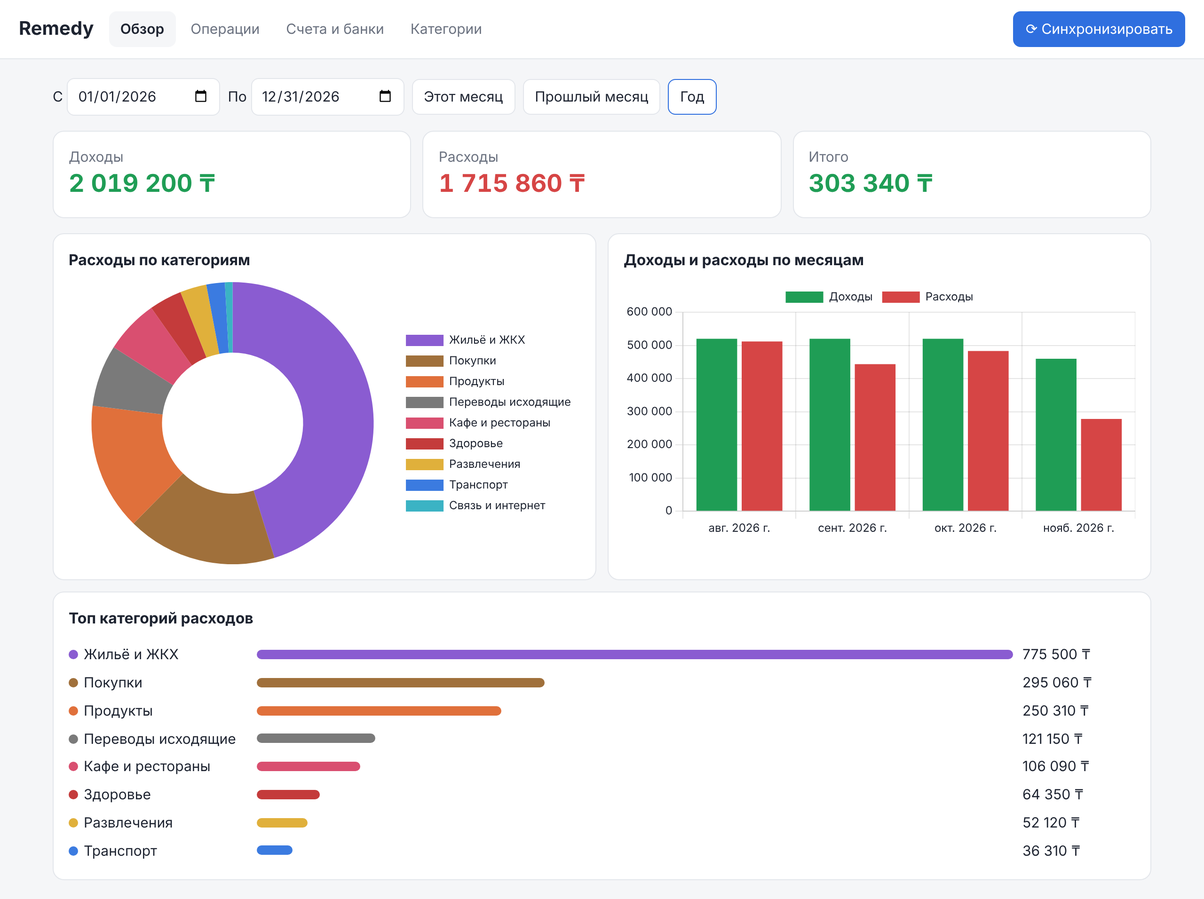
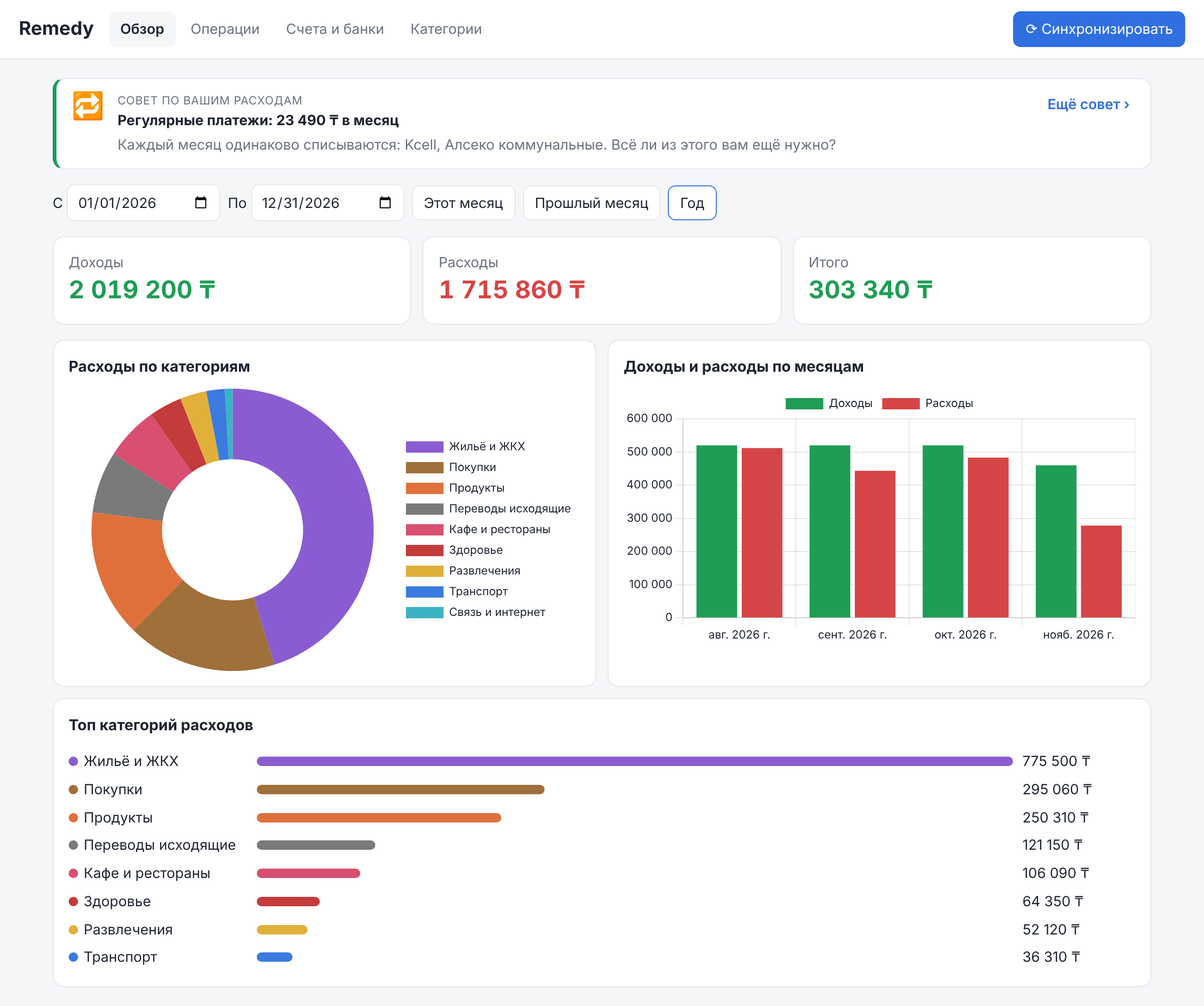
Add rotating financial tips on the overview
- Personal tips from the user's own transactions: savings rate, spending
  pace vs the same days last month, fastest-growing category, top
  flexible category, cafe/delivery count, recurring payments, emergency
  fund target
- 30 general tips (Kazakhstan context: Kaspi installments, KDIF, tenge)
- /api/tip returns a random unseen tip; the page remembers shown tips
  and starts over once all were shown

Claude-Session: https://claude.ai/code/session_012pkuXTJASus5BNVYpo8GZt

diff --git a/frontend/app.js b/frontend/app.js
@@ -137,6 +137,30 @@ async function loadOverview() {
     : '<li class="hint">Нет расходов за период. Подключите банк или импортируйте выписку на вкладке «Счета и банки».</li>';
 }
 
+// --- Финансовые советы ------------------------------------------------------------------
+const SEEN_KEY = "remedy.seenTips";
+function seenTips() {
+  try { return JSON.parse(localStorage.getItem(SEEN_KEY) || "[]"); } catch { return []; }
+}
+function saveSeen(list) {
+  try { localStorage.setItem(SEEN_KEY, JSON.stringify(list.slice(-80))); } catch { /* приватный режим */ }
+}
+let tipSeenThisSession = [];
+async function loadTip() {
+  const seen = [...new Set([...seenTips(), ...tipSeenThisSession])];
+  const t = await api("/api/tip?seen=" + encodeURIComponent(seen.join(",")));
+  const next = t.reset ? [t.id] : [...seen, t.id];
+  tipSeenThisSession = next;
+  saveSeen(next);
+  $("#tip-icon").textContent = t.icon;
+  $("#tip-label").textContent = t.kind === "personal" ? "Совет по вашим расходам" : "Финансовый совет";
+  $("#tip").classList.toggle("personal", t.kind === "personal");
+  $("#tip-title").textContent = t.title;
+  $("#tip-text").textContent = t.text;
+  $("#tip").hidden = false;
+}
+$("#tip-next").addEventListener("click", guard(loadTip));
+
 // --- Операции ----------------------------------------------------------------------------
 async function loadTransactions() {
   const p = new URLSearchParams();
@@ -318,4 +342,5 @@ $("#recategorize").addEventListener("click", guard(async () => {
   if (params.has("bank_error")) toast(`Не удалось подключить банк: ${params.get("bank_error")}`, true);
   if (params.has("bank_linked") || params.has("bank_error")) history.replaceState(null, "", "/");
   guard(refresh)();
+  guard(loadTip)();
 })();

diff --git a/frontend/style.css b/frontend/style.css
@@ -27,6 +27,21 @@ button.primary { background: var(--accent); border-color: var(--accent); color: 
 button.link { border: none; background: none; color: var(--muted); padding: 2px 6px; }
 button.link:hover { color: var(--expense); }
 
+.tip { display: flex; gap: 14px; align-items: flex-start; background: var(--surface); border: 1px solid var(--border);
+  border-left: 4px solid var(--accent); border-radius: 12px; padding: 14px 16px; margin-bottom: 16px; }
+.tip.personal { border-left-color: var(--income); }
+.tip-icon { font-size: 28px; line-height: 1; }
+.tip-body { flex: 1; min-width: 0; }
+.tip-label { font-size: 12px; text-transform: uppercase; letter-spacing: .04em; color: var(--muted); margin-bottom: 2px; }
+.tip-body p { margin: 4px 0 0; color: var(--muted); }
+button.tip-next { color: var(--accent); white-space: nowrap; font-weight: 600; }
+button.tip-next:hover { color: var(--accent); text-decoration: underline; }
+@media (max-width: 700px) {
+  .tip { flex-wrap: wrap; gap: 10px; padding: 12px 14px; }
+  .tip-icon { font-size: 24px; }
+  button.tip-next { order: 3; flex-basis: 100%; text-align: right; padding: 4px 0 0; }
+}
+
 .period, .filters, .inline-form { display: flex; flex-wrap: wrap; gap: 8px; align-items: center; margin-bottom: 16px; }
 .cards { display: grid; grid-template-columns: repeat(auto-fit, minmax(180px, 1fr)); gap: 12px; margin-bottom: 16px; }
 .card { background: var(--surface); border: 1px solid var(--border); border-radius: 12px; padding: 16px; }

diff --git a/frontend/index.html b/frontend/index.html
@@ -24,6 +24,15 @@
 <main>
   <!-- Обзор -->
   <section id="tab-overview" class="tab active">
+    <div id="tip" class="tip" hidden>
+      <div class="tip-icon" id="tip-icon"></div>
+      <div class="tip-body">
+        <div class="tip-label" id="tip-label"></div>
+        <b id="tip-title"></b>
+        <p id="tip-text"></p>
+      </div>
+      <button id="tip-next" class="link tip-next" title="Другой совет">Ещё совет ›</button>
+    </div>
     <div class="period">
       <label>С <input type="date" id="ov-from"></label>
       <label>По <input type="date" id="ov-to"></label>

diff --git a/app/tips.py b/app/tips.py
@@ -1,0 +1,230 @@
+"""Финансовые советы: личные (по операциям пользователя) и общие (подборка).
+
+Личные советы пересчитываются по данным, поэтому меняются вместе с расходами. Каждый совет имеет
+стабильный id — фронтенд запоминает показанные и просит следующий, которого ещё не было.
+"""
+import random
+import sqlite3
+from calendar import monthrange
+from collections import defaultdict
+from datetime import date, timedelta
+from typing import Optional
+
+
+def money(n: float) -> str:
+    return f"{round(n):,}".replace(",", "\u00a0") + "\u00a0₸"  # неразрывные пробелы
+
+
+GENERAL_TIPS = [
+    ("💰", "Сначала заплатите себе", "В день зарплаты сразу переводите 10–20% на депозит — до того, как начнёте тратить. "
+     "Откладывать «то, что останется в конце месяца», почти никогда не работает."),
+    ("🛟", "Подушка безопасности", "Цель — запас на 3–6 месяцев обычных расходов на отдельном счёте. "
+     "Он спасает от кредитов, если потеряете работу или понадобится срочный ремонт."),
+    ("📊", "Правило 50/30/20", "Попробуйте делить доход так: 50% — обязательные расходы (жильё, еда, транспорт), "
+     "30% — желания, 20% — накопления и погашение долгов."),
+    ("🧾", "Рассрочка — тоже долг", "Рассрочка 0-0-12 удобна, но несколько рассрочек сразу незаметно съедают "
+     "бюджет на месяцы вперёд. Перед новой покупкой сложите все текущие ежемесячные платежи."),
+    ("⏳", "Правило 72 часов", "Хочется купить что-то дорогое и незапланированное? Добавьте в корзину и подождите "
+     "три дня. Половина таких желаний за это время проходит сама."),
+    ("🔁", "Проверьте подписки", "Раз в квартал пересматривайте подписки: кино, музыка, облака, приложения. "
+     "Часто мы платим за сервисы, которыми не пользовались месяцами."),
+    ("🛒", "Список перед магазином", "Покупки по заранее составленному списку обычно на 15–20% дешевле, "
+     "чем «зайду и посмотрю, что нужно». И не ходите в магазин голодным."),
+    ("🍳", "Доставка vs готовка", "Обед из доставки обычно стоит в 2–3 раза дороже, чем приготовленный дома. "
+     "Даже 2–3 домашних обеда в неделю заметно экономят за месяц."),
+    ("🏦", "Депозит вместо карты", "Деньги на обычной карте теряют в цене из-за инфляции. "
+     "Свободные средства держите на сберегательном депозите — даже краткосрочном."),
+    ("🛡", "Гарантия депозитов", "Вклады физлиц в Казахстане гарантирует KDIF в пределах установленного лимита. "
+     "Если сбережения большие, проверьте лимит и при необходимости распределите их по разным банкам."),
+    ("🎯", "Цель с суммой и сроком", "«Накопить на отпуск» не работает, а «450 000 ₸ к июлю = 75 000 ₸ в месяц» — работает. "
+     "Разделите цель на ежемесячные суммы."),
+    ("💳", "Кредитка — не доход", "Если пользуетесь кредитным лимитом, гасите его полностью в льготный период. "
+     "Проценты по просрочке легко съедают весь кэшбэк за год."),
+    ("📉", "Сначала дорогие долги", "Если кредитов несколько, направляйте лишние деньги в тот, у которого самая высокая ставка, "
+     "а по остальным платите минимум. Так вы переплатите меньше всего."),
+    ("🎁", "Кэшбэк — не повод тратить", "Кэшбэк приятен, но покупка ради бонусов — это всё равно трата. "
+     "Используйте бонусы на то, что купили бы в любом случае."),
+    ("📅", "Ежегодные траты", "Страховка, техосмотр, подарки, налоги — их легко забыть. "
+     "Посчитайте сумму за год, разделите на 12 и откладывайте её каждый месяц."),
+    ("🧮", "Стоимость в часах", "Перед крупной покупкой переведите цену в часы работы: "
+     "«эти кроссовки = 14 часов моей работы». Иногда это сразу отвечает на вопрос."),
+    ("☕", "Эффект латте", "Кофе за 1 500 ₸ каждый рабочий день — это около 33 000 ₸ в месяц и почти 400 000 ₸ в год. "
+     "Не нужно отказываться — просто знайте цену привычки."),
+    ("👀", "Раз в неделю — 5 минут", "Короткий еженедельный просмотр расходов полезнее, чем подробный разбор раз в полгода: "
+     "вы успеваете скорректировать месяц, пока он не закончился."),
+    ("🏷", "Скидка — не экономия", "«Купи 2 по цене 1» экономит деньги, только если вам действительно нужны две штуки. "
+     "Иначе это просто дополнительная трата."),
+    ("🤝", "Деньги в долг", "Давайте в долг только ту сумму, которую готовы не получить обратно. "
+     "Это сбережёт и бюджет, и отношения."),
+    ("📈", "Повышение — в накопления", "Получили прибавку? Направьте хотя бы половину разницы в сбережения, "
+     "пока вы не привыкли к новому уровню трат."),
+    ("🧹", "Продайте ненужное", "Вещи, которыми не пользовались год, можно продать на OLX или Kaspi Объявлениях "
+     "и отправить деньги на цель."),
+    ("📱", "Тариф связи", "Проверьте, сколько гигабайт и минут вы реально используете. "
+     "Часто можно перейти на тариф дешевле без потери в удобстве."),
+    ("⚡", "Коммунальные платежи", "LED-лампы, выключенные из розетки зарядки и счётчики воды обычно окупаются "
+     "за несколько месяцев и дальше экономят каждый месяц."),
+    ("🧠", "Импульсивные покупки", "Удалите сохранённые карты из приложений магазинов, которыми пользуетесь редко. "
+     "Лишний шаг при оплате заметно сокращает спонтанные покупки."),
+    ("🗂", "Отдельные «конверты»", "Заведите отдельные счета или депозиты под цели: «подушка», «отпуск», «ремонт». "
+     "Так деньги на разные цели не смешиваются."),
+    ("🎓", "Вложения в себя", "Курсы и навыки, которые повышают доход, — одна из самых выгодных инвестиций. "
+     "Но сначала подушка безопасности, потом всё остальное."),
+    ("📆", "Плановые крупные покупки", "Технику дешевле покупать на распродажах: заранее составьте список "
+     "и купите, когда цена упадёт, а не когда старая вещь сломается."),
+    ("🧾", "Чеки и гарантии", "Сохраняйте фото чеков на дорогие покупки: по гарантии можно бесплатно починить "
+     "или вернуть товар, а без чека это намного сложнее."),
+    ("🚕", "Такси против транспорта", "Поездка на такси часто стоит как 10–20 поездок на автобусе. "
+     "Посмотрите, сколько поездок в месяц можно было бы заменить."),
+]
+
+
+def _month_bounds(d: date) -> tuple[str, str]:
+    return d.replace(day=1).isoformat(), d.replace(day=monthrange(d.year, d.month)[1]).isoformat()
+
+
+def _prev_month(d: date) -> date:
+    return (d.replace(day=1) - timedelta(days=1)).replace(day=1)
+
+
+def _by_category(conn, start: str, end: str) -> dict[str, float]:
+    rows = conn.execute(
+        "SELECT COALESCE(c.name, 'Без категории') AS name, -SUM(t.amount) AS total FROM transactions t"
+        " LEFT JOIN categories c ON c.id = t.category_id WHERE t.amount < 0 AND t.date BETWEEN ? AND ?"
+        " GROUP BY name", (start, end)).fetchall()
+    return {r["name"]: r["total"] for r in rows}
+
+
+def _totals(conn, start: str, end: str) -> tuple[float, float]:
+    r = conn.execute(
+        "SELECT COALESCE(SUM(CASE WHEN amount > 0 THEN amount END), 0) AS inc,"
+        " COALESCE(-SUM(CASE WHEN amount < 0 THEN amount END), 0) AS exp"
+        " FROM transactions WHERE date BETWEEN ? AND ?", (start, end)).fetchone()
+    return r["inc"], r["exp"]
+
+
+# переводы и жильё не считаем «урезаемыми» тратами в советах про рост расходов
+NOT_ADJUSTABLE = {"Жильё и ЖКХ", "Переводы исходящие", "Без категории"}
+
+
+def personal_tips(conn: sqlite3.Connection, today: Optional[date] = None) -> list[dict]:
+    today = today or date.today()
+    tips: list[dict] = []
+    month = today.strftime("%Y-%m")
+
+    def add(tid, icon, title, text):
+        tips.append({"id": f"{tid}:{month}", "kind": "personal", "icon": icon, "title": title, "text": text})
+
+    if conn.execute("SELECT COUNT(*) FROM transactions").fetchone()[0] == 0:
+        add("no-data", "📥", "Загрузите первую выписку",
+            "Советы станут личными, когда появятся ваши операции. Загрузите PDF-выписку Kaspi на вкладке «Счета и банки».")
+        return tips
+
+    cur_start, cur_end = _month_bounds(today)
+    prev = _prev_month(today)
+    prev_start, prev_end = _month_bounds(prev)
+    cur_cat, prev_cat = _by_category(conn, cur_start, cur_end), _by_category(conn, prev_start, prev_end)
+    prev_inc, prev_exp = _totals(conn, prev_start, prev_end)
+    cur_inc, cur_exp = _totals(conn, cur_start, cur_end)
+
+    # 1. Норма сбережений за прошлый (полный) месяц
+    if prev_inc > 0:
+        rate = (prev_inc - prev_exp) / prev_inc
+        if rate < 0:
+            add("savings-neg", "⚠", "Расходы больше доходов",
+                f"В прошлом месяце вы потратили {money(prev_exp)} при доходе {money(prev_inc)} — "
+                f"минус {money(prev_exp - prev_inc)}. Посмотрите на 2–3 самые крупные категории: там проще всего сократить.")
+        elif rate < 0.1:
+            add("savings-low", "🐷", f"Вы отложили {rate:.0%} дохода",
+                f"В прошлом месяце осталось {money(prev_inc - prev_exp)} из {money(prev_inc)}. "
+                f"Попробуйте автоматически переводить 10% ({money(prev_inc * 0.1)}) на депозит в день зарплаты.")
+        elif rate >= 0.2:
+            add("savings-good", "🏆", f"Отлично: отложено {rate:.0%} дохода",
+                f"В прошлом месяце у вас осталось {money(prev_inc - prev_exp)}. "
+                "Если эти деньги лежат на карте — переведите их на депозит, чтобы они работали.")
+        else:
+            add("savings-mid", "📈", f"Отложено {rate:.0%} дохода",
+                f"Неплохо! До ориентира в 20% не хватает {money(prev_inc * 0.2 - (prev_inc - prev_exp))} в месяц.")
+
+    # 2. Темп трат: сравниваем одинаковое число дней (аренда и т.п. обычно в начале месяца)
+    day, days = today.day, monthrange(today.year, today.month)[1]
+    same_days_prev_end = prev.replace(day=min(day, monthrange(prev.year, prev.month)[1])).isoformat()
+    _, prev_same_exp = _totals(conn, prev_start, same_days_prev_end)
+    if prev_same_exp > 0 and cur_exp > 0 and 5 <= day < days:
+        diff = cur_exp - prev_same_exp
+        if diff > prev_same_exp * 0.15:
+            add("pace-high", "🏃", "Траты идут быстрее обычного",
+                f"За первые {day} дн. месяца потрачено {money(cur_exp)} — на {money(diff)} больше, "
+                "чем за те же дни прошлого месяца. Есть время притормозить до конца месяца.")
+        elif -diff > prev_same_exp * 0.1:
+            add("pace-low", "🐢", "В этом месяце вы экономнее",
+                f"За первые {day} дн. потрачено на {money(-diff)} меньше, чем за те же дни прошлого месяца. "
+                "Эту разницу можно сразу отложить на депозит.")
+
+    # 3. Категория, которая выросла сильнее всего (сравниваем одинаковое число дней)
+    if day >= 7:
+        prev_part = _by_category(conn, prev_start, same_days_prev_end)
+        growth = [(name, total - prev_part.get(name, 0), prev_part.get(name, 0))
+                  for name, total in cur_cat.items() if name not in NOT_ADJUSTABLE]
+        growth = [g for g in growth if g[1] >= 5000 and g[2] > 0 and g[1] / g[2] >= 0.25]
+        if growth:
+            name, diff, base = max(growth, key=lambda g: g[1])
+            add(f"growth-{name}", "📊", f"«{name}» выросли на {diff / base:.0%}",
+                f"За первые {day} дн. месяца на «{name}» ушло на {money(diff)} больше, чем за тот же период прошлого месяца.")
+
+    # 4. Самая крупная «гибкая» категория прошлого месяца
+    flexible = {k: v for k, v in prev_cat.items() if k not in NOT_ADJUSTABLE}
+    if flexible and prev_exp > 0:
+        name, total = max(flexible.items(), key=lambda kv: kv[1])
+        share = total / prev_exp
+        if share >= 0.15:
+            add(f"top-{name}", "🔍", f"{share:.0%} расходов — «{name}»",
+                f"В прошлом месяце на «{name}» ушло {money(total)}. Сокращение даже на 10% даст {money(total * 0.1)} в месяц "
+                f"и {money(total * 1.2)} за год.")
+
+    # 5. Кафе и доставка: число заказов
+    r = conn.execute(
+        "SELECT COUNT(*) AS n, COALESCE(-SUM(t.amount), 0) AS s FROM transactions t JOIN categories c ON c.id = t.category_id"
+        " WHERE c.name = 'Кафе и рестораны' AND t.amount < 0 AND t.date BETWEEN ? AND ?", (prev_start, prev_end)).fetchone()
+    if r["n"] >= 8:
+        add("cafe-count", "🍔", f"{r['n']} заказов еды и кафе за месяц",
+            f"В прошлом месяце — {money(r['s'])}, в среднем {money(r['s'] / r['n'])} за раз. "
+            f"Если заменить четверть из них домашней едой, освободится около {money(r['s'] * 0.25 * 0.6)}.")
+
+    # 6. Регулярные платежи (подписки): одинаковое описание и сумма в 2 последних месяцах
+    subs = conn.execute(
+        "SELECT description, amount FROM transactions WHERE amount < 0 AND amount > -30000 AND date BETWEEN ? AND ?"
+        " INTERSECT SELECT description, amount FROM transactions WHERE amount < 0 AND date BETWEEN ? AND ?",
+        (prev_start, prev_end, _month_bounds(_prev_month(prev))[0], _month_bounds(_prev_month(prev))[1])).fetchall()
+    if subs:
+        total = -sum(s["amount"] for s in subs)
+        names = ", ".join(s["description"].split(": ", 1)[-1] for s in subs[:4])
+        add("subs", "🔁", f"Регулярные платежи: {money(total)} в месяц",
+            f"Каждый месяц одинаково списываются: {names}{' и др.' if len(subs) > 4 else ''}. "
+            "Всё ли из этого вам ещё нужно?")
+
+    # 7. Подушка безопасности на основе средних расходов
+    r = conn.execute(
+        "SELECT AVG(exp) AS avg FROM (SELECT -SUM(amount) AS exp FROM transactions WHERE amount < 0 AND date < ?"
+        " GROUP BY SUBSTR(date, 1, 7) ORDER BY SUBSTR(date, 1, 7) DESC LIMIT 3)", (cur_start,)).fetchone()
+    if r["avg"]:
+        add("cushion", "🛟", f"Ваша подушка: {money(r['avg'] * 3)} – {money(r['avg'] * 6)}",
+            f"Вы тратите в среднем {money(r['avg'])} в месяц. Запас на 3–6 месяцев защитит от кредитов "
+            "в трудной ситуации. Держите его на отдельном депозите.")
+    return tips
+
+
+def pick_tip(conn: sqlite3.Connection, seen: set[str], today: Optional[date] = None,
+             rng: Optional[random.Random] = None) -> dict:
+    """Случайный совет, которого пользователь ещё не видел. Личные советы показываются чаще."""
+    rng = rng or random.Random()
+    personal = [t for t in personal_tips(conn, today) if t["id"] not in seen]
+    general = [{"id": f"g{i}", "kind": "general", "icon": icon, "title": title, "text": text}
+               for i, (icon, title, text) in enumerate(GENERAL_TIPS) if f"g{i}" not in seen]
+    if personal and (not general or rng.random() < 0.5):
+        tip = rng.choice(personal)
+    elif general:
+        tip = rng.choice(general)
+    else:  # всё показано — начинаем круг заново
+        return pick_tip(conn, set(), today, rng) | {"reset": True}
+    return tip | {"reset": False}

diff --git a/tests/test_app.py b/tests/test_app.py
@@ -190,3 +190,42 @@ def test_kaspi_salary_beats_generic_topup(client):
     client.post("/api/transactions", json={"account_id": acc, "date": "2026-11-05", "amount": 450000,
                                            "description": "Пополнение: Зарплата ТОО Алем"})
     assert client.get("/api/transactions").json()[0]["category"] == "Зарплата"
+
+
+def test_tips_rotate_without_repeats(client):
+    seen, ids = [], set()
+    for _ in range(40):
+        t = client.get("/api/tip", params={"seen": ",".join(seen)}).json()
+        assert t["title"] and t["text"]
+        if t["reset"]:
+            break
+        assert t["id"] not in ids  # пока не показаны все — без повторов
+        ids.add(t["id"])
+        seen.append(t["id"])
+    assert len(ids) >= 30
+
+
+def test_personal_tips_from_data(tmp_path, monkeypatch):
+    from datetime import date
+    from app.tips import personal_tips
+    monkeypatch.setattr(db, "DB_PATH", str(tmp_path / "t.db"))
+    db.init_db()
+    with db.get_conn() as conn:
+        acc = conn.execute("INSERT INTO accounts (name) VALUES ('Kaspi Gold')").lastrowid
+        cats = {r["name"]: r["id"] for r in conn.execute("SELECT id, name FROM categories")}
+        rows = [("2026-09-05", 400000, "Зарплата"), ("2026-10-05", 400000, "Зарплата"),
+                ("2026-09-15", -4990, "Платежи: Kcell"), ("2026-10-15", -4990, "Платежи: Kcell"),
+                ("2026-10-08", -380000, "Аренда")]
+        rows += [(f"2026-10-{d:02d}", -3000, "Покупки: Glovo") for d in range(10, 22)]
+        rows += [(f"2026-11-{d:02d}", -9000, "Покупки: Glovo") for d in range(1, 9)]
+        rows += [("2026-10-03", -4000, "Покупки: Glovo")]
+        for d, a, desc in rows:
+            cat = "Кафе и рестораны" if "Glovo" in desc else ("Зарплата" if a > 0 else "Прочие расходы")
+            conn.execute("INSERT INTO transactions (account_id, date, amount, description, category_id) VALUES (?,?,?,?,?)",
+                         (acc, d, a, desc, cats[cat]))
+        tips = {t["id"].split(":")[0]: t for t in personal_tips(conn, date(2026, 11, 10))}
+    assert "savings-neg" in tips                     # в октябре расходы больше доходов
+    assert "growth-Кафе и рестораны" in tips         # кафе выросли
+    assert "cafe-count" in tips and "13 заказов" in tips["cafe-count"]["title"]
+    assert "subs" in tips and "Kcell" in tips["subs"]["text"]
+    assert "cushion" in tips

diff --git a/app/main.py b/app/main.py
@@ -17,6 +17,7 @@ from .banks import BankError, available_providers, get_provider
 from .banks.importers import parse_statement
 from .categorize import categorize, load_rules
 from .sync import link_connection, save_transactions, sync_account
+from .tips import pick_tip
 
 log = logging.getLogger("remedy")
 FRONTEND_DIR = os.path.join(os.path.dirname(__file__), "..", "frontend")
@@ -297,6 +298,14 @@ def summary(date_from: Optional[date] = Query(None, alias="from"),
         "by_category": [dict(r) for r in by_category],
         "by_month": [dict(r) for r in by_month],
     }
+
+
+# --- Советы ------------------------------------------------------------------------------
+@app.get("/api/tip")
+def tip(seen: str = ""):
+    """Случайный финансовый совет. seen — id уже показанных советов через запятую."""
+    with db.get_conn() as conn:
+        return pick_tip(conn, {s for s in seen.split(",") if s})
 
 
 # --- Банки -------------------------------------------------------------------------------

diff --git a/README.md b/README.md
@@ -22,6 +22,9 @@
 - **Без дублей**: повторная синхронизация или повторный импорт той же выписки не создают копий операций.
 - **Автокатегоризация** по правилам («Пятёрочка» → Продукты, «Яндекс Go» → Транспорт и т.д.).
   Если сменить категорию у операции и выбрать «запомнить», создаётся правило и применяется к похожим операциям.
+- **Финансовые советы** на главной — каждый раз новые: личные, посчитанные по вашим операциям
+  (сколько удалось отложить, какие категории выросли, регулярные платежи, размер подушки безопасности),
+  и общие из подборки ~30 советов. Кнопка «Ещё совет ›» показывает следующий, без повторов.
 - **Отчёты**: доходы, расходы и итог за период, диаграмма по категориям, график по месяцам.
 - Счета вручную (например, «Наличные») и ручное добавление операций.
 - **Демо-банк** — можно попробовать синхронизацию без ключей и настоящего банка.
